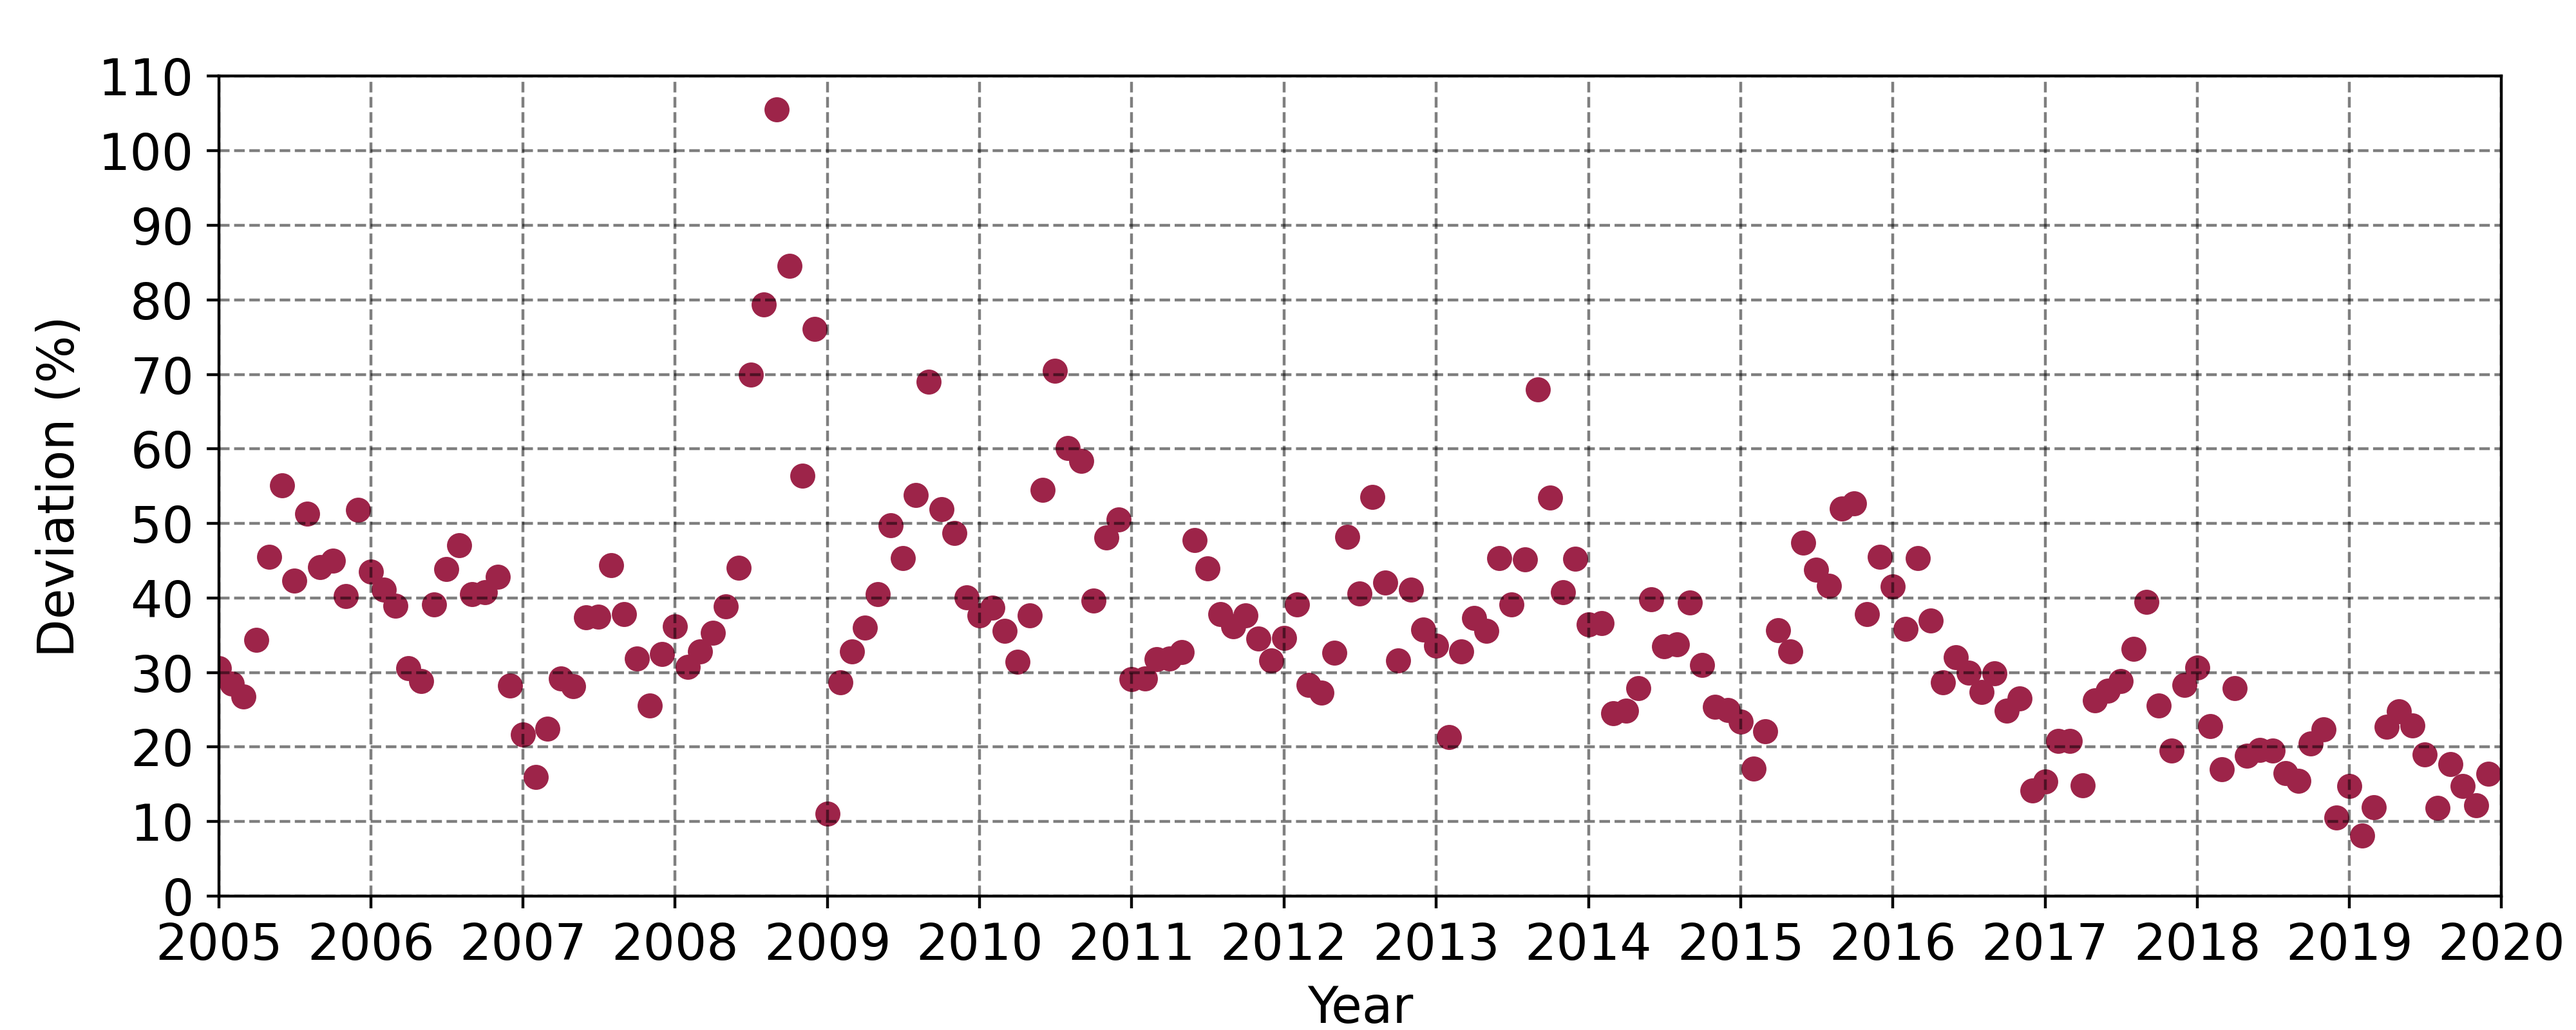
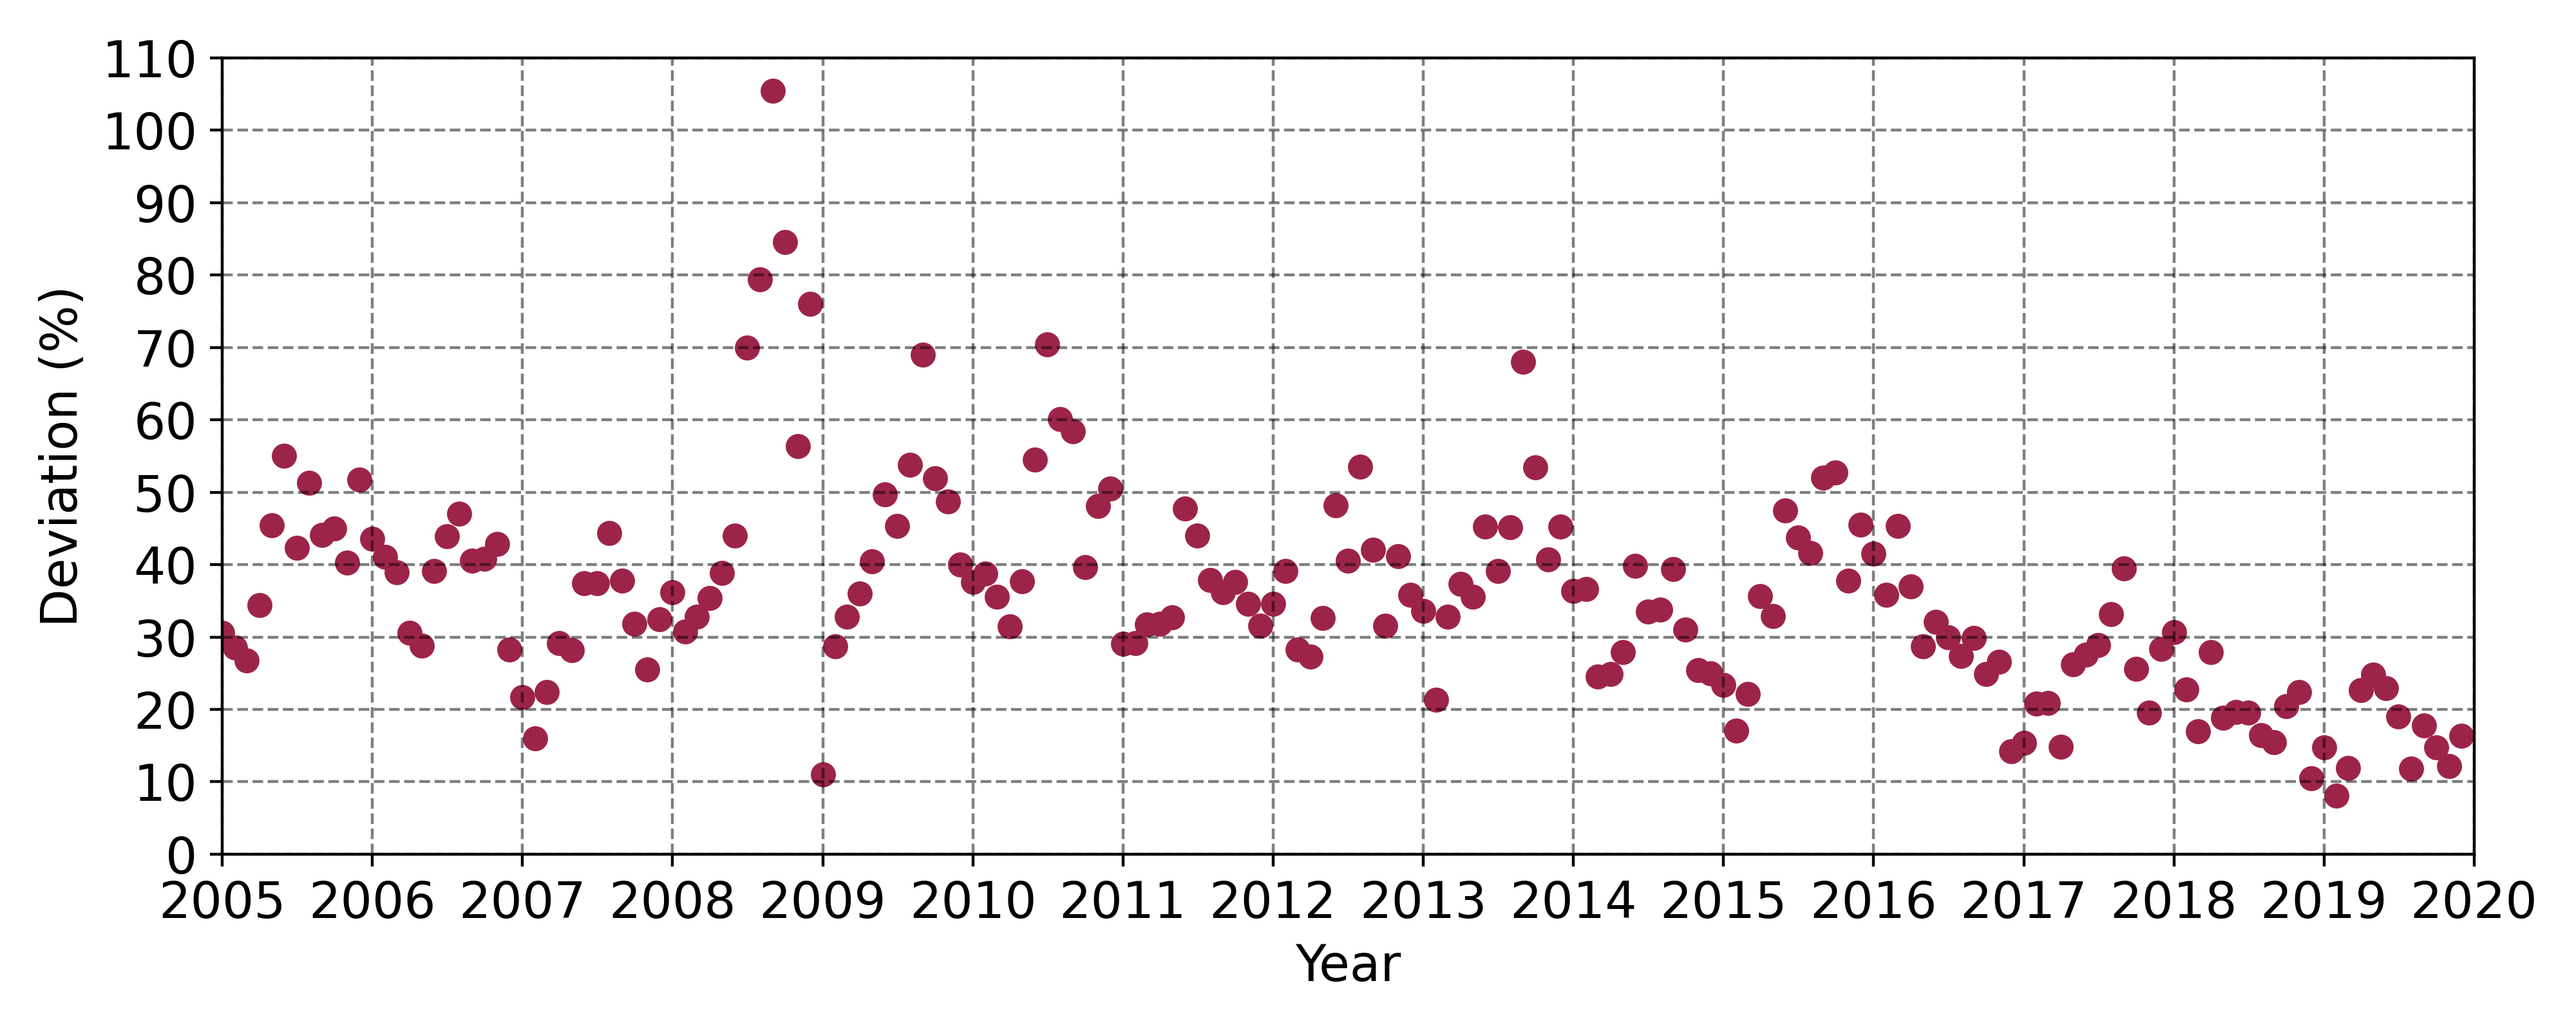
Figures 6 and 7 with the same size

diff --git a/Scripts/Graphics_RD_between_OMI_and_measurements.py b/Scripts/Graphics_RD_between_OMI_and_measurements.py
@@ -56,10 +56,12 @@ print("La diferencial relativa promedio es {:.2f}".format(
 dates, years = obtain_xticks(parameters["Year initial"],
                              parameters["Year final"])
 plt.figure(figsize=(10, 4))
-plt.subplots_adjust(left=0.085,
-                    bottom=0.13,
-                    right=0.971,
-                    top=0.926)
+plt.subplots_adjust(top=0.963,
+                    bottom=0.2,
+                    left=0.062,
+                    right=0.967,
+                    hspace=0.2,
+                    wspace=0.2)
 plt.xlabel("Year",
            fontsize=parameters["fontsize"])
 plt.xlim(pd.to_datetime(parameters["Year initial"]),
@@ -76,5 +78,6 @@ plt.scatter(monthly_mean.index, monthly_mean["RD"],
 plt.grid(ls="--",
          color="#000000",
          alpha=0.5)
+plt.tight_layout()
 plt.savefig("{}Monthly_mean_RD.png".format(parameters["path graphics"]),
             dpi=400)

diff --git a/Scripts/Graphics_omi_data.py b/Scripts/Graphics_omi_data.py
@@ -41,9 +41,9 @@ def plot_data(data,  date_initial, date_final, path, name, fontsize=14):
                         hspace=0.2,
                         wspace=0.2)
     plt.xlabel("Year",
-               fontsize=fontsize+1)
+               fontsize=fontsize)
     plt.ylabel("UV Index",
-               fontsize=fontsize+1)
+               fontsize=fontsize)
     dates, xtick = obtain_xticks(date_initial,
                                  date_final)
     plt.xlim(pd.to_datetime(date_initial).date(),
